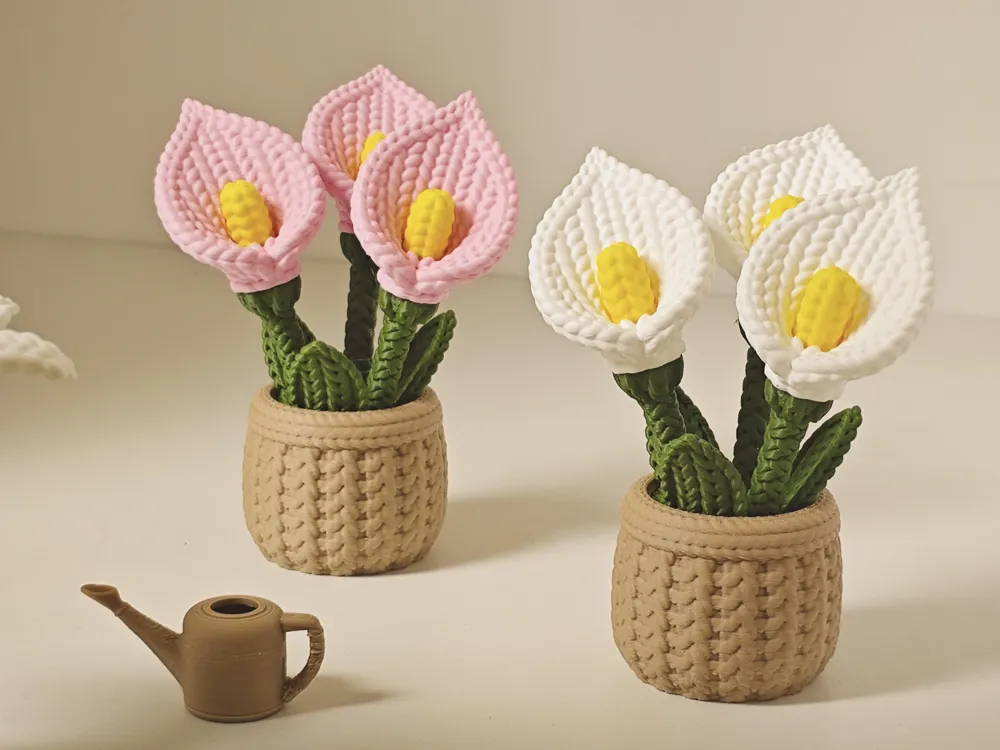
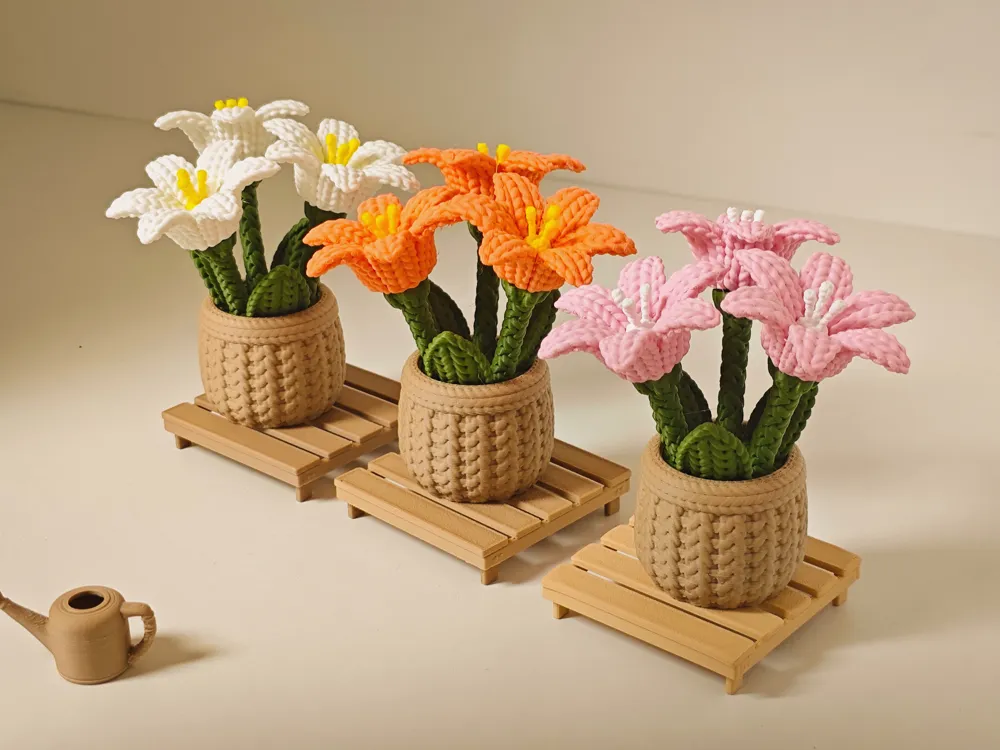
Update product titles and descriptions for Flor Cartucho and Flor Lirio, and modify associated image for Flor Lirio.

diff --git a/src/content/products/flor-lirio-lana/index.md b/src/content/products/flor-lirio-lana/index.md
@@ -1,9 +1,9 @@
 ---
-title: Flor Lirio Estilo Tejido
+title: Arreglo de Lirios Estilo Tejido
 price: 65
 currency: BOB
 tags: [flor, decoracion, amor]
 dimensions: "7 × 7 × 12 cm"
 order: 1
 ---
-Arreglo de una flor de lirio en maceta con estilo de bordado en lana.
+Arreglo de tres flores de lirio en maceta con estilo de bordado en lana.

diff --git a/src/content/products/flor-rosa-lana/index.md b/src/content/products/flor-rosa-lana/index.md
@@ -1,0 +1,9 @@
+---
+title: Arreglo de Rosas Estilo Tejido
+price: 110
+currency: BOB
+tags: [flor, decoracion, amor]
+dimensions: "7 × 7 × 12 cm"
+order: 1
+---
+Arreglo de tres rosas en maceta con estilo de bordado en lana.

diff --git a/src/content/products/flor-rosa-individual-lana/index.md b/src/content/products/flor-rosa-individual-lana/index.md
@@ -1,0 +1,9 @@
+---
+title: Rosa Individual Estilo Tejido
+price: 70
+currency: BOB
+tags: [flor, decoracion, amor]
+dimensions: "7 × 7 × 12 cm"
+order: 1
+---
+Flor de rosa en maceta con estilo de bordado en lana.

diff --git a/src/content/products/carrera-vertical/index.md b/src/content/products/carrera-vertical/index.md
@@ -1,0 +1,9 @@
+---
+title: Carrera Vertical - Juego de Mesa
+price: 350
+currency: BOB
+tags: [juego, juguete]
+dimensions: "18 × 10 × 40 cm"
+order: 1
+---
+Juego de mesa para 2 personas sobre escalar

diff --git a/src/content/products/flor-cartucho-lana/index.md b/src/content/products/flor-cartucho-lana/index.md
@@ -1,5 +1,5 @@
 ---
-title: Flor Cartucho Estilo Tejido
+title: Arreglo de Cartuchos Estilo Tejido
 price: 65
 currency: BOB
 tags: [flor, decoracion, amor]
